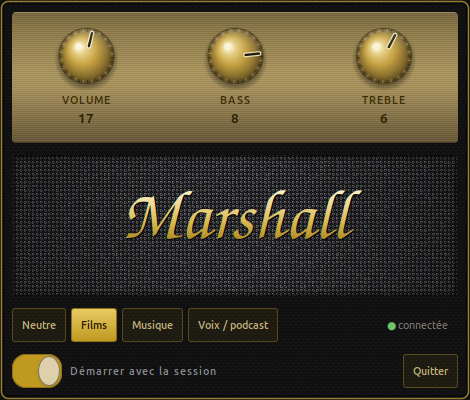
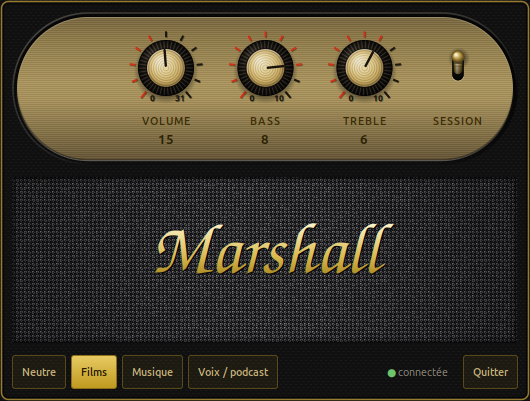
docs: capture et description de la facade avec graduations et levier
Trois molettes bicolores sur une capsule encastree, graduations rouges qui
montent avec la valeur, levier dore SESSION sur la plaque. La fenetre passe de
470x400 a 530x401 : le pied a fusionne avec la rangee de presets, ce qui echange
47 px de largeur contre 46 px de hauteur et donne a la plaque un rapport de 3,47
au lieu de 3,05 -- c'est ce qui la fait lire comme une capsule.

diff --git a/README.md b/README.md
@@ -10,7 +10,7 @@ Control your **Marshall Acton III** speaker from Linux — volume, bass and treb
 (which has no Linux version).
 
 <p align="center">
-  <img src="docs/images/settings.png" alt="La fenêtre en façade d'amplificateur : plaque de laiton avec les trois molettes volume, bass et treble, toile tissée et logo doré, les quatre presets, l'état du lien, l'interrupteur de démarrage et le bouton Quitter" width="470">
+  <img src="docs/images/settings.png" alt="La fenêtre en façade d'amplificateur : plaque de laiton encastrée en capsule portant trois molettes bicolores, chacune entourée de graduations rouges qui montent avec la valeur, plus un levier doré SESSION ; en dessous la toile tissée et le logo, puis les quatre presets, l'état du lien et le bouton Quitter" width="530">
 </p>
 <p align="center">
   <img src="docs/images/tray.png" alt="L'icône M dorée dans la barre système GNOME, à côté des autres indicateurs" width="320">
@@ -50,10 +50,11 @@ marshall-ctl preset Musique    # Neutre | Films | Musique | Voix / podcast
 ```
 
 **Left-click** the tray icon to open a Cairo-drawn Marshall amplifier facade:
-three gold rotary knobs on a brushed brass plate, the four presets, link status,
-an autostart switch and a Quit button. Knobs turn by vertical drag, by the mouse
-wheel (exactly one notch per notch) or with the arrow keys, and they follow the
-speaker's physical knobs live.
+three two-tone knobs on a recessed brass capsule, each ringed by **red graduation
+marks** that fill up with the value, plus a **gold toggle lever** for start-with-
+session; below that the woven grille, the four presets, link status and a Quit
+button. Knobs turn by vertical drag, by the mouse wheel (exactly one notch per
+notch) or with the arrow keys, and they follow the speaker's physical knobs live.
 
 The right-click menu still exists but **do not rely on it** — on GNOME 46 it does
 not open at all, which is why everything lives in the window.
@@ -75,9 +76,11 @@ depuis Linux, sans toucher aux molettes physiques et sans passer par
 l'application mobile Marshall (qui n'existe pas sous Linux).
 
 - une **fenêtre en façade d'amplificateur**, dessinée en Cairo : trois molettes
-  rotatives dorées sur une plaque de laiton, les quatre presets, l'état du lien,
-  l'interrupteur de démarrage automatique et le bouton Quitter. **Clic gauche sur
-  l'icône de la barre système** pour l'ouvrir ;
+  bicolores sur une plaque de laiton encastrée, chacune entourée de **graduations
+  rouges** qui montent avec la valeur, plus un **levier doré** pour le démarrage
+  avec la session. En dessous, la toile tissée, les quatre presets, l'état du lien
+  et le bouton Quitter. **Clic gauche sur l'icône de la barre système** pour
+  l'ouvrir ;
 - un **CLI**, `marshall-ctl` ;
 - les changements faits sur les molettes physiques de l'enceinte remontent en
   direct dans l'interface.
